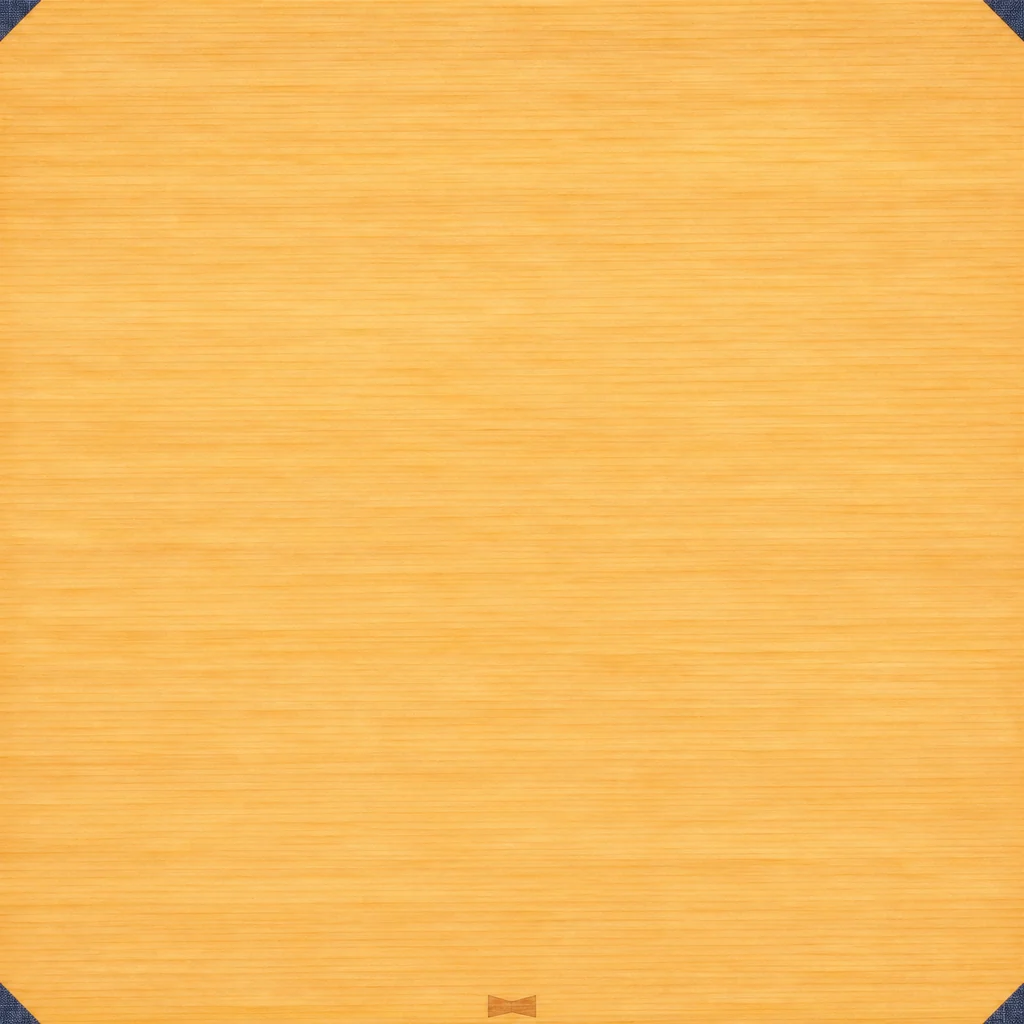
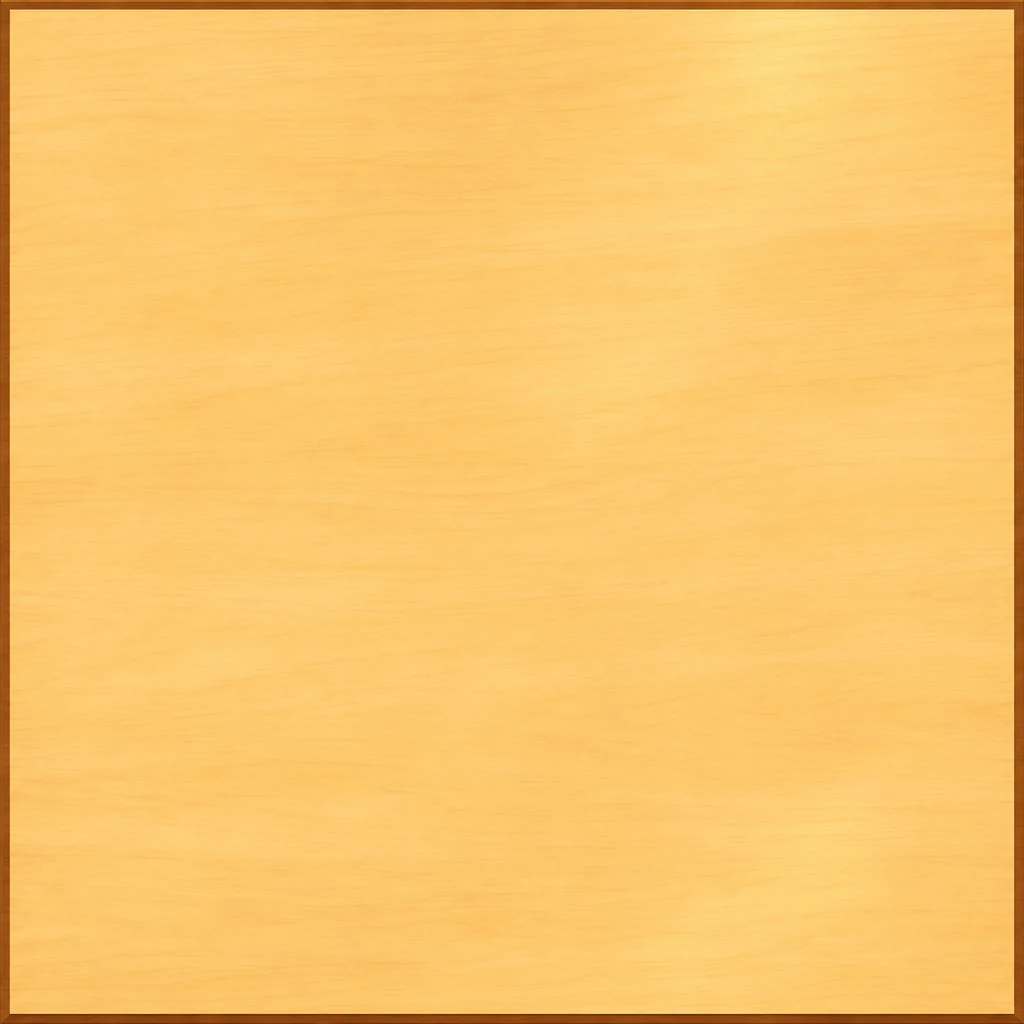
feat: 双人五子棋启用原创棋馆与真实交叉点直操

diff --git a/boardgames/gomoku_art.py b/boardgames/gomoku_art.py
@@ -20,7 +20,7 @@ STONE_FILL = 224 / 256
 _PHOTO_LIMIT = 6
 
 
-@lru_cache(maxsize=2)
+@lru_cache(maxsize=3)
 def _source(name):
     try:
         from PIL import Image
@@ -37,7 +37,7 @@ def _photo(cv, name, size, value=0):
     if not isinstance(cv, tk.Canvas):
         return None
     try:
-        from PIL import Image, ImageTk
+        from PIL import Image, ImageTk, ImageOps
         cache = getattr(cv, "_gomoku_art_photos", None)
         if cache is None:
             cache = cv._gomoku_art_photos = OrderedDict()
@@ -48,7 +48,10 @@ def _photo(cv, name, size, value=0):
         source = _source(name)
         if source is None:
             return None
-        if value:
+        if value == -1:
+            source=source.crop((0,0,round(source.width*.43),source.height))
+            source=ImageOps.fit(source,size,Image.Resampling.LANCZOS,centering=(.5,.3))
+        elif value:
             half = source.width // 2
             left = (value - 1) * half
             source = source.crop((left, 0, left + half, source.height))
@@ -71,6 +74,17 @@ def draw_board(cv, x0, y0, x1, y1):
         return False
     cv.create_image(x0, y0, image=photo, anchor="nw", tags="_gomoku_art_board")
     return True
+
+
+def draw_host(cv, width):
+    """Keep the visible anime player outside all playable intersections."""
+    cv.create_rectangle(8,48,width-8,122,fill='#fff7e9',outline='#d3bc8d')
+    photo=_photo(cv,'cover-gomoku.webp',(92,68),-1)
+    if photo is not None:
+        cv.create_image(11,51,image=photo,anchor='nw',tags='_gomoku_art_host')
+    cv.create_text(114,70,text='五子棋 · 棋馆',font=('Microsoft YaHei UI',12,'bold'),fill='#55452d',anchor='w')
+    cv.create_text(114,96,text='点击交叉点，恰好五连获胜',font=('Microsoft YaHei UI',9),fill='#6b6255',anchor='w')
+    return photo is not None
 
 
 def draw_stone(cv, cx, cy, radius, value):
@@ -116,7 +130,7 @@ const createGomokuArtPainter = (() => {
   }
   return function createGomokuArtPainter(cv, repaint) {
     const ctx = cv.getContext('2d');
-    const board = source('gomoku-board.webp'), stones = source('gomoku-stones.png');
+    const board = source('gomoku-board.webp?v=anime-v1'), stones = source('gomoku-stones.png?v=anime-v1');
     let pending = false;
     const refresh = () => {
       if (pending || !cv.isConnected) return;

diff --git a/client.py b/client.py
@@ -11534,7 +11534,7 @@ _GAME_ACTIONS = {
         ("出题", {"key": "secret", "kind": "int"}, "输入 1~100 数字（出题）"),
         ("猜数字", {"key": "guess", "kind": "int"}, "输入 1~100 数字（猜）"),
     ],
-    "gomoku": [("落子", {"key": None, "kind": "pos"}, "输入 x,y（0 起，用逗号分隔）")],
+    "gomoku": [],  # Placement is directly on the real board intersections.
     "gomoku_solo": [("落子", {"key": None, "kind": "pos"}, "输入 x,y（0 起，用逗号分隔）")],
     "tile2048": [
         ("↑ 上", {"fixed": {"op": "move", "dir": "up"}}, ""),
@@ -11758,6 +11758,7 @@ _GAME_HINTS = {
     "gemcity": "先选市场牌，再点「买入」或「保留」；在「藏册」点卡可放大赏图",
     "lovelove": "先点持牌或新摸牌，再选目标／护卫猜值，最后点「确认出牌」",
     "tile2048": "用方向按钮滑动；点击棋盘聚焦后可按方向键。相同数字合并，挑战 2048",
+    "gomoku": "点击棋盘交叉点落子；恰好五连获胜",
     "gomoku_solo": "你执黑，点击交叉点落子；电脑执白自动应手，恰好五连获胜",
     "azul": "点花砖，再点花纹行或地板；也可拖动。键盘：←→选砖，↑↓选落点，Enter落砖，Esc取消",
     "go_solo": "单人练习：点击交叉点落子，电脑会自动应手；连续两次「过一手」终局",
@@ -13239,11 +13240,6 @@ class GameWindow:
                 lines.append(f"上轮 {self._nick(lg['uid'])} 猜 {lg['val']}：{lg['dir']}")
             lines.append(f"区间 {st.get('low')}~{st.get('high')}")
         elif game in ("gomoku", "gomoku_solo") and "board" in st:
-            board = st["board"]
-            lines.append("  " + " ".join(str(i % 10) for i in range(len(board[0]))))
-            for y, row in enumerate(board):
-                lines.append(f"{y%10} " + " ".join("●" if c == 1 else
-                                                   "○" if c == 2 else "·" for c in row))
             if not (st.get("winner_uid") is not None or st.get("draw")) and st.get("turn_uid"):
                 lines.append(f"轮到 {self._nick(st['turn_uid'])}")
             if st.get("winner_uid"):

diff --git a/tests/test_flagship_gui.py b/tests/test_flagship_gui.py
@@ -202,23 +202,14 @@ def test_real_game_window_bindings_focus_gate_and_collapse_restore(monkeypatch):
         root.update()
         assert core.calls and core.calls[-1][1] == {"x": 0, "y": 0}
 
-        # The action button uses the same latest-state gate.  Replace the
-        # dialog provider only for this synthetic input, then trigger the
-        # actual Tk Button invoke path.
-        old_input = client_module._KIND_INPUTS["pos"]
-        client_module._KIND_INPUTS["pos"] = lambda *_args: "1,1"
-        try:
-            button = next(w for w in gw.act_btns.winfo_children()
-                          if w.cget("text") == "落子")
-            button.invoke()
-            after_invoke = len(core.calls)
-            button.focus_force()
-            root.update()
-            button.event_generate("<KeyPress-Return>", when="tail")
-            root.update()
-        finally:
-            client_module._KIND_INPUTS["pos"] = old_input
-        assert len(core.calls) >= after_invoke + 1
+        # There is no duplicate coordinate-input placement path. A second
+        # actual board click uses the same latest-state gate.
+        assert not any(w.cget('text')=='落子' for w in gw.act_btns.winfo_children())
+        before_click=len(core.calls)
+        gw.game_cv.event_generate('<Button-1>',x=round(ui['ox']+ui['cell']),
+                                 y=round(ui['oy']+ui['cell']),when='tail')
+        root.update()
+        assert len(core.calls)==before_click+1
         assert core.calls[-1][1] == {"x": 1, "y": 1}
 
         # The normal minimum layout remains usable after an explicit resize.

diff --git a/web.py b/web.py
@@ -4397,12 +4397,17 @@ const GRENDER={
       :(s.draw?"平局":"轮到 "+esc(gnick(s.turn_uid))+(s.turn_uid===state.uid?"（你执子）":"")));
     box.appendChild(info);
     const mine=s.winner_uid==null&&!s.draw&&s.turn_uid===state.uid;
+    const host=document.createElement('div');host.className='gomoku-host';
+    host.style.cssText='display:flex;gap:12px;align-items:center;max-width:'+W+'px;margin:5px auto 8px;background:#fff7e9;border:1px solid #d3bc8d;border-radius:7px;color:#55452d';
+    const portrait=document.createElement('div');portrait.setAttribute('role','img');portrait.setAttribute('aria-label','棋馆女棋手');
+    portrait.style.cssText='width:92px;height:68px;flex:none;border-radius:6px;background:url(/game-art/cover-gomoku.webp?v=anime-v1) 0 30% / 233% auto no-repeat';
+    const welcome=document.createElement('div');welcome.innerHTML='<b>五子棋 · 棋馆</b><br><small>点击交叉点，恰好五连获胜</small>';host.append(portrait,welcome);box.appendChild(host);
     const cv=document.createElement("canvas");cv.width=W;cv.height=W;
     cv.style.cssText="display:block;max-width:100%;height:auto;margin:0 auto;background:#d9a45b;border-radius:6px;touch-action:manipulation;cursor:"
       +(mine?"pointer":"default");
     box.appendChild(cv);
     const ctx=cv.getContext("2d");
-    const art=(s.solo||s.game==="gomoku_solo")&&typeof createGomokuArtPainter==="function"
+    const art=typeof createGomokuArtPainter==="function"
       ?createGomokuArtPainter(cv,paint):null;
     function paint(){
     ctx.clearRect(0,0,W,W);

diff --git a/client_gameui.py b/client_gameui.py
@@ -2518,12 +2518,13 @@ def _p_gomoku(cv, st, me, nick, submit, repaint, ui, priv, w, h):
     accent = THEME["gomoku"][1]
     n = st.get("size") or 15
     game = "gomoku_solo" if st.get("game") == "gomoku_solo" else "gomoku"
-    use_art = game == "gomoku_solo"
+    use_art = True  # Both real-player and solo games share the same physical set.
     if use_art:
         from boardgames import gomoku_art
     title = flagship_status(game, st, me, nick)
     _turn_banner(cv, w, 46, title, accent)
-    ox, oy, cell = _fit(n, w, h, header=46)
+    gomoku_art.draw_host(cv, w)
+    ox, oy, cell = _fit(n, w, h, header=126)
     ui.update(ox=ox, oy=oy, cell=cell, n=n, rows=n, cols=n, game=game)
     # 棋盘（纸面木纹底）加柔和投影
     _soft_shadow(cv, ox - 18, oy - 14, ox + n * cell + 14, oy + n * cell + 14,

diff --git a/assets/boardgame/gallery/gomoku-anime.md b/assets/boardgame/gallery/gomoku-anime.md
@@ -1,0 +1,29 @@
+# 五子棋与单人陪练共用棋馆美术
+
+2026-11-06 使用 Codex 内置 ImageGen 全新生成，无参考图。
+`gomoku` 与 `gomoku_solo` 两个游戏键在桌面和网页共用以下三份原画资源，
+不是两套独立原图。对局中的少女棋手在棋盘外的棋馆画面出现，
+实际交叉点、星位、坐标、当前黑白子和最后一手始终由真实状态绘制。
+
+| 文件 | 尺寸 | 内容 |
+| --- | --- | --- |
+| gomoku-board.webp | 1024×1024 | 原创动画风浅金木纹空棋盘，不预绘网格或棋子 |
+| gomoku-stones.png | 512×256 | 透明两格，左黑子(1)、右白子(2) |
+| cover-gomoku.webp | 768×384 | 成年女性棋手、手持黑子、明快棋馆与庭园 |
+
+棋子按原合同居中装箱到每格256×256，实体直径224像素；保留边缘抗锯齿，
+实心材质的近不透明alpha规整为255。生成的黑子中心保持黑色，白子中心保持白色，
+没有将最后一手红点画进素材。素材缺失时仍使用既有矢量棋盘与黑白子回退。
+
+提示组均为 `stylized-concept`、原创日系动画赛璐璐原画：
+
+1. 木盘：正俯视浅金榧木，中央94%浅色、低对比度木纹；边缘仅极细木框。
+   无网格、星点、棋子、人物、道具、文字、数字或界面。
+2. 棋子：同尺寸、正俯视圆形黑白两子，左黑右白，透明2×1图集；
+   左上克制高光、轮廓清晰、中心分别保持黑与白，无外部阴影、符号或数字。
+3. 棋馆：左侧43%为24岁原创女性棋手，长蓝黑发、浅蓝缎带、蓝绿色眼睛、
+   靛青和风外套与白衬衣；指间持一颗黑子，面孔清晰。右侧为明亮木桌棋馆、
+   障子窗与樱花庭园。封面可绘少量宣传场景棋子，实际棋盘不从封面取数据。
+
+两种游戏已移除坐标输入「落子」动作与重复ASCII棋盘。
+多人对局保留认输、悔棋及求和等既有必要功能；单人真人执黑，电脑执白即时应手。

diff --git a/docs/任务清单.md b/docs/任务清单.md
@@ -2,7 +2,7 @@
 
 > 阅读视图，状态源日期2026-10-25（UTC）。状态唯一来源：[指挥中心](AI_COMMAND_CENTER.md)。
 
-<!-- roadmap-source-sha256: b313938d2bf8a1a31f3f52de41d461bcb0807259d8a7f2d013b8940452d3d09f -->
+<!-- roadmap-source-sha256: 2b4aef8793a7eb09fbc00e421a8663a4edea2891f4e425c9ef335b880837a082 -->
 
 ## 桌游二次元美术与直接操作 · ANIME-TABLES-20261106 v1.1
 
@@ -19,6 +19,7 @@
 | 铁路 | AI_ACCEPTED · 实物旅行牌桌已完成；结算时按线路与私人目的票计算的净分显示胜者。 |
 | 花砖物语 | AI_ACCEPTED · 五类花砖、工厂圆盘、墙面和地板直接点击／拖动，首次玩家筹可以从中央走到地板。 |
 | 桌面棋盘提交 | AI_ACCEPTED · 旧画布必须匹配Core当前房间、轮次、UID、公私帧和成员身份；花砖验明的取放连续动作有独立校验。 |
+| 五子棋 | AI_ACCEPTED · 双人木纹棋盘直接点交叉点，黑白棋、末手与五连胜线可辨。 |
 
 
 

diff --git a/docs/review-packages/ANIME-TABLES-20261106-r1.md b/docs/review-packages/ANIME-TABLES-20261106-r1.md
@@ -45,3 +45,7 @@
 ## 桌面棋盘提交 · AI_ACCEPTED
 
 d961bf5，经营组独立审查从原始旧房复现与真发送方法开始，已记录 PASS，包括合法当前房正例和花砖中途换帧；相关7文件187通过，真实字段的末端用例单文件44通过（计数重叠）。
+
+## 五子棋 · AI_ACCEPTED
+
+共享美术候选 fc8fc53。主控核对双人正式桌面与手机原图，15路的交叉点、黑白棋色、最后一手和五连位置都由真实状态提供。双人桌面双方轮流9次直接落子直到黑方恰好五连；网页同样用正常Hub的两位合成玩家完成9次手机触摸。原坐标输入及重复的字符棋盘已撤下，旧API仍可接合法落子。原两模式专测6文件72通过，棋子透明度、尺寸与中心颜色断言保留。 [桌面实盘](../review-assets/ANIME-TABLES-20261106/gomoku/desktop.webp) / [网页实盘](../review-assets/ANIME-TABLES-20261106/gomoku/mobile.webp)。
